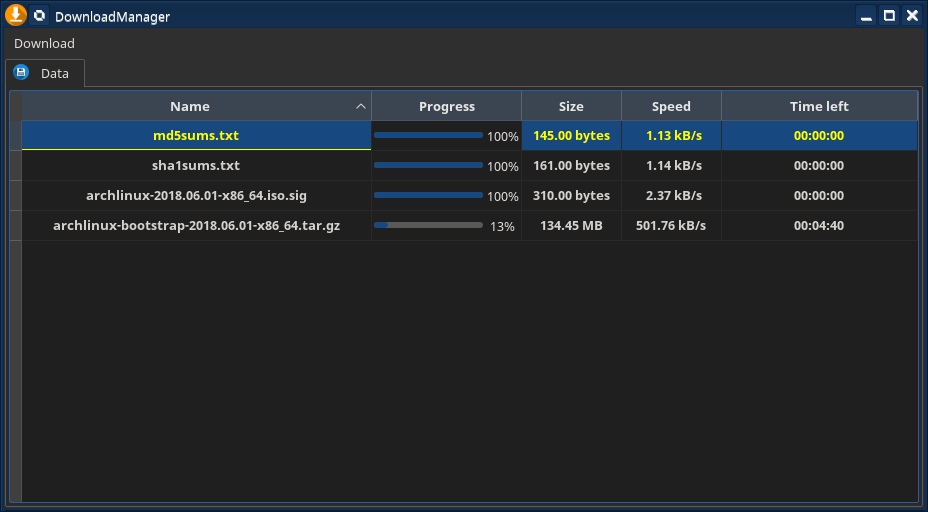
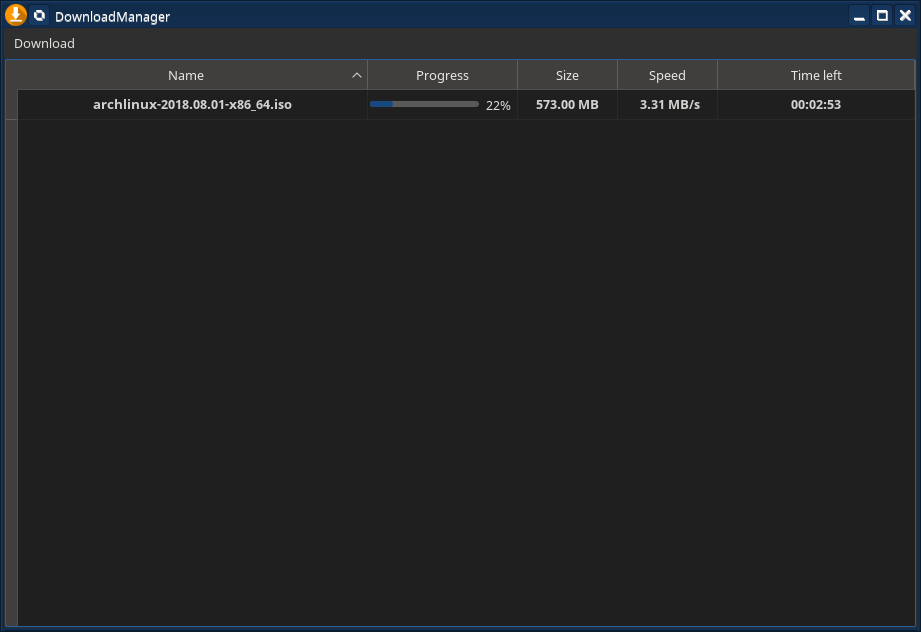
Downloader Widget inherits Table View

diff --git a/downloaderwidget.cpp b/downloaderwidget.cpp
@@ -9,13 +9,14 @@
 #include <QPainter>
 #include <QFileDialog>
 #include <QDesktopServices>
+#include <QHBoxLayout>
 
 
 downloaderWidget::downloaderWidget(QWidget *parent)
-    : QTabWidget(parent){
+    : QTableView(parent){
     downloadTable = new DownloaderTable;
     downloadPainter = new DownloaderItemDelegate;
-    setupTable();
+    setup();
     load();
 }
 
@@ -23,30 +24,25 @@ downloaderWidget::~downloaderWidget(){
     save();
 }
 
-void downloaderWidget::setupTable(){
+void downloaderWidget::setup(){
     proxy = new QSortFilterProxyModel(this);
     proxy->setSourceModel(downloadTable);
     proxy->setFilterKeyColumn(0);
 
-    QTableView *dataViewer;
-    dataViewer = new QTableView;
-    dataViewer->setModel(proxy);
-    dataViewer->setSortingEnabled(true);
-    dataViewer->resizeColumnsToContents();
-    dataViewer->setSelectionBehavior(QAbstractItemView::SelectRows);
-    dataViewer->setSelectionMode(QAbstractItemView::SingleSelection);
-    dataViewer->setEditTriggers(QAbstractItemView::NoEditTriggers);
-    dataViewer->setColumnWidth(0, 350);
-    dataViewer->setColumnWidth(1, 150);
-    dataViewer->setColumnWidth(2, 100);
-    dataViewer->setColumnWidth(3, 100);
-    dataViewer->horizontalHeader()->setStretchLastSection(true);
-    dataViewer->setItemDelegate(downloadPainter);
+    setModel(proxy);
+    setSortingEnabled(true);
+    resizeColumnsToContents();
+    setSelectionBehavior(QAbstractItemView::SelectRows);
+    setSelectionMode(QAbstractItemView::SingleSelection);
+    setEditTriggers(QAbstractItemView::NoEditTriggers);
+    setColumnWidth(0, 350);
+    setColumnWidth(1, 150);
+    setColumnWidth(2, 100);
+    setColumnWidth(3, 100);
+    horizontalHeader()->setStretchLastSection(true);
+    setItemDelegate(downloadPainter);
 
-    connect(dataViewer, SIGNAL(doubleClicked(QModelIndex)), this, SLOT(showDownloadedFileLocation(QModelIndex)));
-
-    QIcon icon(":/resources/icons/data.png");
-    addTab(dataViewer, icon, "Data");
+    connect(this, SIGNAL(doubleClicked(QModelIndex)), this, SLOT(showDownloadedFileLocation(QModelIndex)));
 }
 
 void downloaderWidget::Download(QUrl & url){
@@ -106,9 +102,8 @@ QString downloaderWidget::getDownloadLink(){
 }
 
 void downloaderWidget::remove(){
-    QTableView *findSelected = static_cast<QTableView*>(currentWidget());
-    QSortFilterProxyModel *proxySelected = static_cast<QSortFilterProxyModel*>(findSelected->model());
-    QItemSelectionModel *selectionModel = findSelected->selectionModel();
+    QSortFilterProxyModel *proxySelected = static_cast<QSortFilterProxyModel*>(this->model());
+    QItemSelectionModel *selectionModel = this->selectionModel();
 
     QModelIndexList indexies = selectionModel->selectedRows();
 
@@ -133,7 +128,7 @@ void downloaderWidget::setDownload(){
         QRegularExpressionMatch match = urlRegex.match(url);
 
         if(!match.hasMatch()){
-            QMessageBox::critical(this, "Error", "Incorrect URL");
+            QMessageBox::critical(this, "Error", "Incorrect URL", QMessageBox::Ok);
             return;
         }
 

diff --git a/downloaderwidget.h b/downloaderwidget.h
@@ -1,7 +1,7 @@
 #ifndef DOWNLOADERWIDGET_H
 #define DOWNLOADERWIDGET_H
 
-#include <QTabWidget>
+#include <QTableView>
 #include <QTime>
 #include <QSortFilterProxyModel>
 
@@ -10,7 +10,7 @@
 #include "downloadprogresssingleconnect.h"
 
 
-class downloaderWidget : public QTabWidget{
+class downloaderWidget : public QTableView{
     Q_OBJECT
 public:
     downloaderWidget(QWidget *parent = 0);
@@ -28,7 +28,7 @@ public slots:
     void showDownloadedFileLocation(QModelIndex);
     void remove();
 private:
-    void setupTable();
+    void setup();
     DownloaderTable  *downloadTable = nullptr;
     DownloaderItemDelegate *downloadPainter = nullptr;
     QSortFilterProxyModel *proxy = nullptr;

diff --git a/downloaderitemdelegate.cpp b/downloaderitemdelegate.cpp
@@ -29,5 +29,6 @@ void DownloaderItemDelegate::paint(QPainter *painter, const QStyleOptionViewItem
 }
 
 QSize DownloaderItemDelegate::sizeHint(const QStyleOptionViewItem &option, const QModelIndex &index) const{
+    Q_UNUSED(index);
     return option.widget->size();
 }
